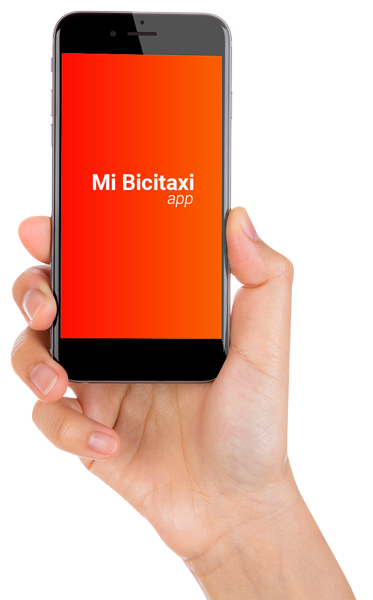
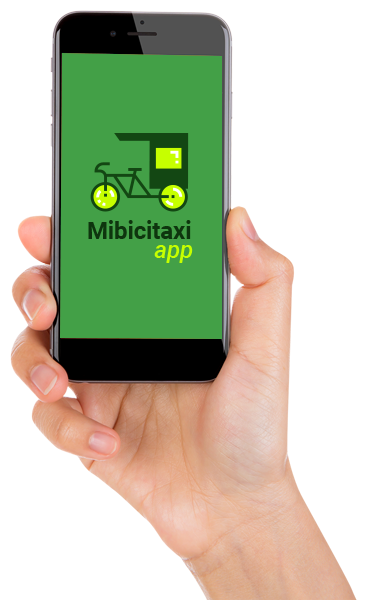
Landing page new look and feel

Changed region(s): [[0.1475, 0.09, 0.6193, 0.57]]

diff --git a/backend/Bicitaxi-app/app/assets/stylesheets/welcome.scss b/backend/Bicitaxi-app/app/assets/stylesheets/welcome.scss
@@ -4,6 +4,7 @@
 
 @import url('https://fonts.googleapis.com/css?family=Roboto:100i,300,300i,400,500,500i,700,900');
 @import url('https://use.fontawesome.com/releases/v5.4.1/css/all.css');
+
 /* reset */
 html{
     box-sizing: border-box;
@@ -51,7 +52,11 @@ table {
 	border-collapse: collapse;
 	border-spacing: 0;
 }
-  
+
+
+
+
+
 /* landing */
 body {
     display: flex;
@@ -63,38 +68,36 @@ a {
     text-decoration: none;
 }
 
+
 /* color section */
 .home, 
 .contact {
-    background: rgb(255,50,50); /* Old browsers */
-    background: -moz-linear-gradient(left, rgba(255,50,50,1) 0%, rgba(255,0,4,1) 52%, rgba(249,108,0,1) 100%); /* FF3.6-15 */
-    background: -webkit-linear-gradient(left, rgba(255,50,50,1) 0%,rgba(255,0,4,1) 52%,rgba(249,108,0,1) 100%); /* Chrome10-25,Safari5.1-6 */
-    background: linear-gradient(to right, rgba(255,50,50,1) 0%,rgba(255,0,4,1) 52%,rgba(249,108,0,1) 100%); /* W3C, IE10+, FF16+, Chrome26+, Opera12+, Safari7+ */
-    filter: progid:DXImageTransform.Microsoft.gradient( startColorstr='#ff3232', endColorstr='#f96c00',GradientType=1 ); /* IE6-9 */
+    background-color: #43a047;
 }
 .how{
     background-color: #F1F1F1;
 }
 
+
+
+
 /* font */
 h2{ 
-    color:rgba(255,50,50,1);
+    color:#43a047;
     font-size:2rem;
     font-weight: bold;
     text-align: center;
 }
 
+
+
+
 /* icons */
-.icon{  
+.fas{  
     color:#FFF;
 }
-.features .icon{
-    background: rgb(255,50,50); /* Old browsers */
-    background: -moz-linear-gradient(left, rgba(255,50,50,1) 0%, rgba(255,0,4,1) 52%, rgba(249,108,0,1) 100%); /* FF3.6-15 */
-    background: -webkit-linear-gradient(left, rgba(255,50,50,1) 0%,rgba(255,0,4,1) 52%,rgba(249,108,0,1) 100%); /* Chrome10-25,Safari5.1-6 */
-    background: linear-gradient(to right, rgba(255,50,50,1) 0%,rgba(255,0,4,1) 52%,rgba(249,108,0,1) 100%); /* W3C, IE10+, FF16+, Chrome26+, Opera12+, Safari7+ */
-    filter: progid:DXImageTransform.Microsoft.gradient( startColorstr='#ff3232', endColorstr='#f96c00',GradientType=1 ); /* IE6-9 */
-    
+.features .fas{
+    background-color: #43a047;
     border-radius: 50%;
     color:#FFF;
     font-size: 3rem;
@@ -102,6 +105,10 @@ h2{
     padding: 2rem;
     width: 50px;
 }
+
+
+
+
 
 /* home */
 header{
@@ -115,13 +122,16 @@ header h1{
     text-align: center;
     font-weight: bold;
     font-size: 2rem;
-    width: 20%;
 }
-.applogo{
+/*.applogo{
     background-color: red;
     display: inline-block;
     height: 2rem;
     width: 6rem;
+}*/
+.marca span{
+    color:#c6ff00;
+    font-weight: 400;
 }
 h1 span{
     font-style: italic;
@@ -151,6 +161,8 @@ nav ul li a:link, nav ul li a:visited{
 nav ul li a:hover{
     font-weight:700;
 }
+
+
 
 /* banner */
 .download{
@@ -186,9 +198,9 @@ nav ul li a:hover{
 .wrapperbuttons{
     margin: 1.5rem 0 0 5rem;
 }
-.button{
+.button, .menu-button{
     border:1px solid #FFF;
-    border-radius: .3rem;
+    border-radius: 2rem;
     background-color: rgba(0,0,0,0);
     color:#FFF;
     font-weight: bold;
@@ -196,9 +208,14 @@ nav ul li a:hover{
     text-transform: uppercase;
 }
 .main-action{
-    background-color: orange;
+    background-color: #c6ff00;
     border:none;
     color:#1f1f1f;
+}
+.menu-button{
+    border:none;
+    padding:1rem;
+    text-decoration: underline;
 }
 
 /* features */
@@ -217,7 +234,7 @@ nav ul li a:hover{
 }
 
 .feature h3{
-    color:#4C4C4C;
+    color:#0a240a;
     font-size: 1.2rem;
     font-weight:900;
     margin: 4rem 0 1rem 0;
@@ -274,7 +291,6 @@ nav ul li a:hover{
     color:#FFF;
     font-size: 1rem;
     margin: 0 0 .5rem 0;
-    text-transform: uppercase;  
 }
 .contact .contact-ways, 
 .contact-ways > ul {
@@ -299,4 +315,57 @@ nav ul li a:hover{
 
 
 
+@media screen and (min-width:320px) and (max-width:1024px){
+    .wit-30, .wit-50, .wit-70{
+        display: block;
+        width:100%;  
+    }
+    header{
+        justify-content: space-between;
+    }
+    .download h3,
+    .download p,
+    .download .wrapperbuttons{
+        margin: 0.5rem 0 0 0;
+        padding:1rem 0;
+    }
+    .button{
+        min-width:220px;
+    }
+    .wrapperbuttons .button{
+        display: inline-block;
+        margin:0 0 1.5rem 0;
+    }
+    .features article{
+        display: flex;
+        flex-direction: column;
+    }
+    .features .feature{
+        padding: 0 0 5rem 0;
+        width:100%;
+    }
+    .contact h3{
+        font-size:2rem;
+        text-align: center;
+    }
+    .contact .contact-ways{
+        display: flex;
+        flex-direction: column;
+        justify-content: center;
+    }
+    
+    .contact .contact-ways ul{
+        justify-content: center;
+        padding: 1.5rem 0;
+        width:100%;
+    }
+    .contact-ways li{
+        margin: 0 2rem;
+    }
+    .contact-ways li .fab{
+        font-size: 2rem;
+    }
+    
+
+}
 

diff --git a/backend/Bicitaxi-app/config/application.rb b/backend/Bicitaxi-app/config/application.rb
@@ -10,19 +10,19 @@ module BicitaxiApp
   class Application < Rails::Application
     # Initialize configuration defaults for originally generated Rails version.
     config.load_defaults 5.2
-
+    config.assets.paths << Rails.root.join("app", "assets", "fonts")
     # Settings in config/environments/* take precedence over those specified here.
     # Application configuration can go into files in config/initializers
     # -- all .rb files in that directory are automatically loaded after loading
     # the framework and any gems in your application.
-    Raven.configure do |config|
-      config.dsn = 'https://485a1c6c40a74c4aa53cfec345f49865:2e3d0ccad83547bba333e6f319e3dd5b@sentry.io/1314254'
-    end
+    #Raven.configure do |config|
+      #config.dsn = 'https://485a1c6c40a74c4aa53cfec345f49865:2e3d0ccad83547bba333e6f319e3dd5b@sentry.io/1314254'
+    #end
 
     # in an initializer, like sentry.rb
-    Raven.configure do |config|
-      config.sanitize_fields = Rails.application.config.filter_parameters.map(&:to_s)
-    end
+    #Raven.configure do |config|
+      #config.sanitize_fields = Rails.application.config.filter_parameters.map(&:to_s)
+    #end
         
   end
 end

diff --git a/backend/Bicitaxi-app/db/schema.rb b/backend/Bicitaxi-app/db/schema.rb
@@ -12,6 +12,9 @@
 
 ActiveRecord::Schema.define(version: 2018_10_23_014536) do
 
+  # These are extensions that must be enabled in order to support this database
+  enable_extension "plpgsql"
+
   create_table "agremiacion", force: :cascade do |t|
     t.integer "id_agremiacion"
     t.text "nombre"

diff --git a/backend/Bicitaxi-app/config/routes.rb b/backend/Bicitaxi-app/config/routes.rb
@@ -1,4 +1,5 @@
 Rails.application.routes.draw do
   get 'welcome/index'
   # For details on the DSL available within this file, see http://guides.rubyonrails.org/routing.html
+  root :to => "welcome#index"
 end
